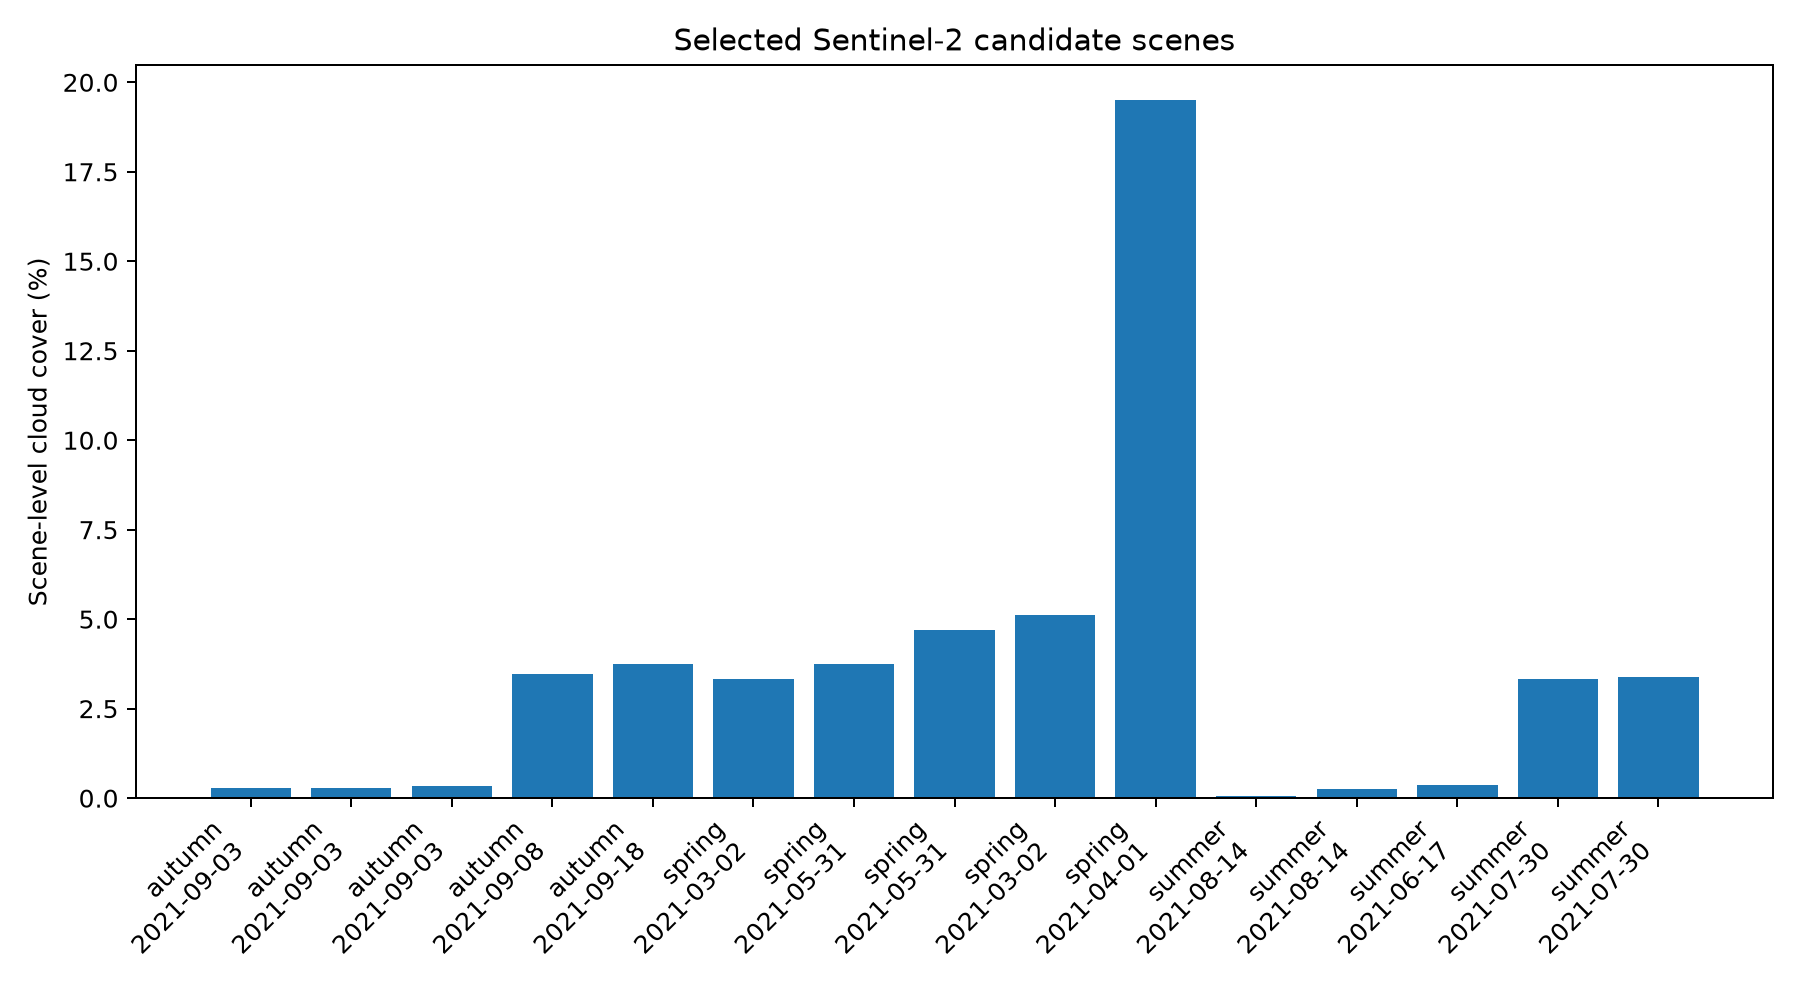
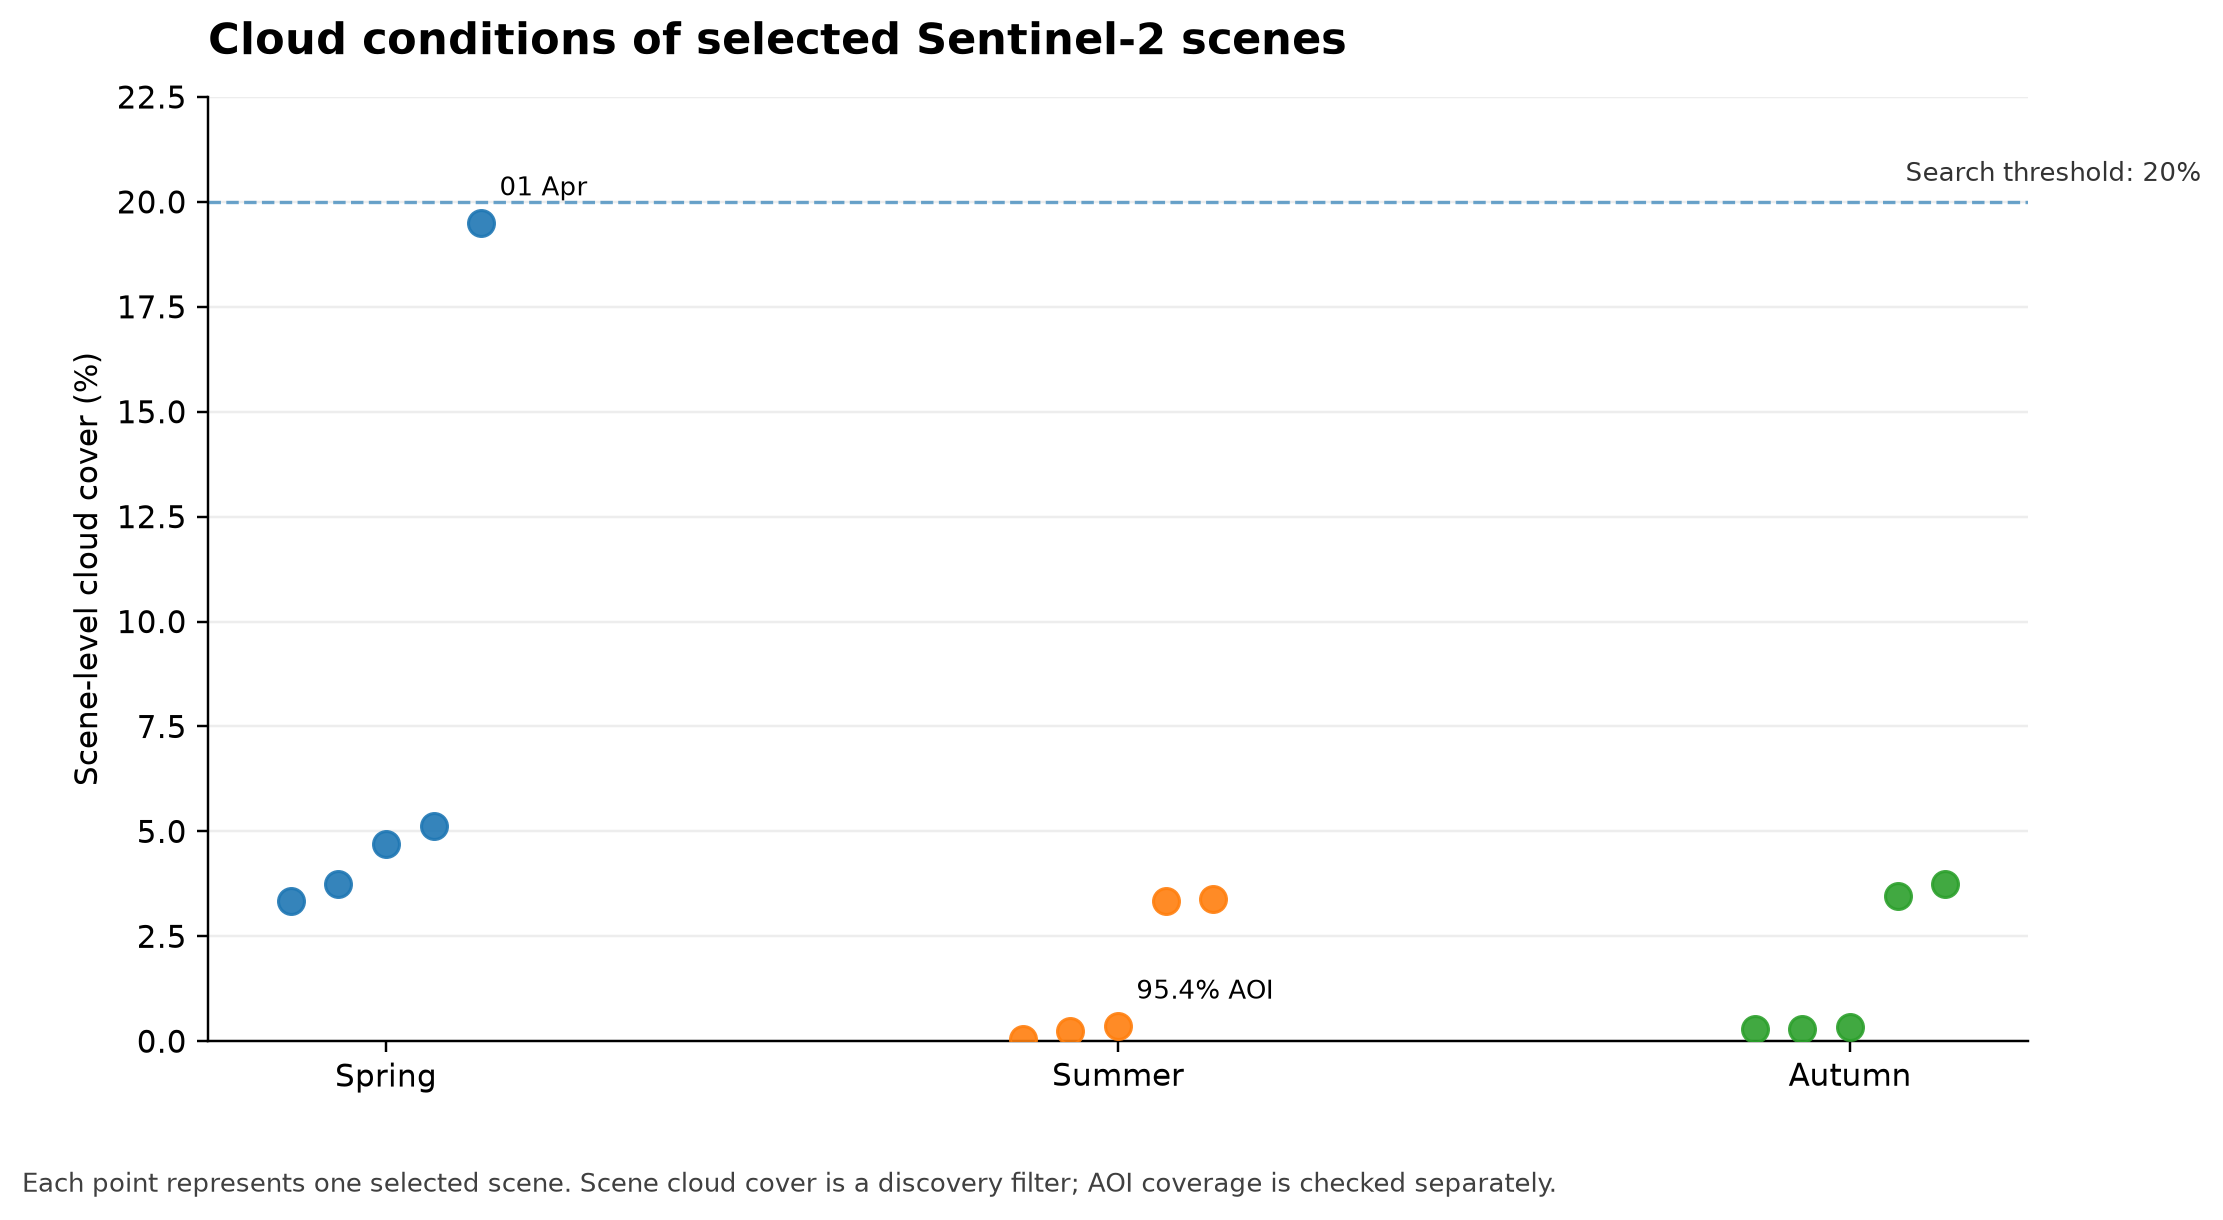
Generate Project04 Stage 1 data QA outputs

diff --git a/outputs/STAGE1_REPORT.md b/outputs/STAGE1_REPORT.md
@@ -1,50 +1,92 @@
 # Stage 1 Data Discovery Report
 
+> **Purpose.** Confirm study-area geometry, identify suitable Sentinel-2 observations, and verify the reference-label source before raster preprocessing or model training.
+
+![Cloud conditions of selected Sentinel-2 scenes](figure01_scene_cloud_cover.png)
+
+## QA at a glance
+
+| Check | Result |
+|---|---:|
+| Augsburg municipal area | **146.76 km²** |
+| Sentinel-2 candidate scenes | **51** |
+| Selected scenes | **15** |
+| Scene cloud-cover search threshold | **<20%** |
+| Minimum target AOI coverage | **95%** |
+| WorldCover source check | **HTTP 206** |
+
+## Seasonal scene summary
+
+| Season | Candidates | Selected | Cloud cover range | AOI coverage range |
+|---|---:|---:|---:|---:|
+| Spring | 15 | 5 | 3.3–19.5% | 100.0–100.0% |
+| Summer | 17 | 5 | 0.1–3.4% | 95.4–100.0% |
+| Autumn | 19 | 5 | 0.3–3.8% | 100.0–100.0% |
+
 ## Study area
 
-- Augsburg municipal area: **146.76 km²**
-- Boundary source: OpenStreetMap relation **62407**
-- Analysis CRS for area/coverage checks: **EPSG:32632**
+- Boundary: OpenStreetMap relation **62407**.
+- Municipal area: **146.76 km²**.
+- CRS used for metric area and coverage checks: **EPSG:32632**.
 
-## Sentinel-2 search
+## Selected-scene details
 
-- Candidate scenes found: **51**
-- Selected candidate scenes: **15**
+The main report keeps scene-level metadata collapsed. Expand a season when exact acquisition times, cloud-cover values, AOI coverage, or STAC item IDs are needed.
 
-### Autumn
+<details>
+<summary><strong>Spring</strong> — 5 selected scene(s)</summary>
 
-- 2021-09-03T10:27:28.066000Z: cloud **0.3%**, AOI coverage **100.0%**, item `S2A_32UPU_20210903_2_L2A`
-- 2021-09-03T10:27:28.066000Z: cloud **0.3%**, AOI coverage **100.0%**, item `S2A_32UPU_20210903_1_L2A`
-- 2021-09-03T10:27:28.066000Z: cloud **0.3%**, AOI coverage **100.0%**, item `S2A_32UPU_20210903_0_L2A`
-- 2021-09-08T10:27:23.531000Z: cloud **3.5%**, AOI coverage **100.0%**, item `S2B_32UPU_20210908_1_L2A`
-- 2021-09-18T10:27:23.588000Z: cloud **3.8%**, AOI coverage **100.0%**, item `S2B_32UPU_20210918_0_L2A`
+| Acquisition | Cloud cover | AOI coverage | STAC item |
+|---|---:|---:|---|
+| 2021-03-02 10:27 UTC | 3.3% | 100.0% | `S2B_32UPU_20210302_1_L2A` |
+| 2021-03-02 10:27 UTC | 5.1% | 100.0% | `S2B_32UPU_20210302_0_L2A` |
+| 2021-04-01 10:27 UTC | 19.5% | 100.0% | `S2B_32UPU_20210401_0_L2A` |
+| 2021-05-31 10:27 UTC | 3.7% | 100.0% | `S2B_32UPU_20210531_0_L2A` |
+| 2021-05-31 10:27 UTC | 4.7% | 100.0% | `S2B_32UPU_20210531_1_L2A` |
 
-### Spring
+</details>
 
-- 2021-03-02T10:27:26.069000Z: cloud **3.3%**, AOI coverage **100.0%**, item `S2B_32UPU_20210302_1_L2A`
-- 2021-05-31T10:27:27.915000Z: cloud **3.7%**, AOI coverage **100.0%**, item `S2B_32UPU_20210531_0_L2A`
-- 2021-05-31T10:27:27.915000Z: cloud **4.7%**, AOI coverage **100.0%**, item `S2B_32UPU_20210531_1_L2A`
-- 2021-03-02T10:27:26.069000Z: cloud **5.1%**, AOI coverage **100.0%**, item `S2B_32UPU_20210302_0_L2A`
-- 2021-04-01T10:27:25.288000Z: cloud **19.5%**, AOI coverage **100.0%**, item `S2B_32UPU_20210401_0_L2A`
+<details>
+<summary><strong>Summer</strong> — 5 selected scene(s)</summary>
 
-### Summer
+| Acquisition | Cloud cover | AOI coverage | STAC item |
+|---|---:|---:|---|
+| 2021-06-17 10:17 UTC | 0.4% | 95.4% | `S2B_32UPU_20210617_0_L2A` |
+| 2021-07-30 10:27 UTC | 3.4% | 100.0% | `S2B_32UPU_20210730_0_L2A` |
+| 2021-07-30 10:27 UTC | 3.3% | 100.0% | `S2B_32UPU_20210730_1_L2A` |
+| 2021-08-14 10:27 UTC | 0.1% | 100.0% | `S2A_32UPU_20210814_1_L2A` |
+| 2021-08-14 10:27 UTC | 0.3% | 100.0% | `S2A_32UPU_20210814_0_L2A` |
 
-- 2021-08-14T10:27:29.646000Z: cloud **0.1%**, AOI coverage **100.0%**, item `S2A_32UPU_20210814_1_L2A`
-- 2021-08-14T10:27:29.646000Z: cloud **0.3%**, AOI coverage **100.0%**, item `S2A_32UPU_20210814_0_L2A`
-- 2021-06-17T10:17:31.041000Z: cloud **0.4%**, AOI coverage **95.4%**, item `S2B_32UPU_20210617_0_L2A`
-- 2021-07-30T10:27:28.855000Z: cloud **3.3%**, AOI coverage **100.0%**, item `S2B_32UPU_20210730_1_L2A`
-- 2021-07-30T10:27:28.854000Z: cloud **3.4%**, AOI coverage **100.0%**, item `S2B_32UPU_20210730_0_L2A`
+</details>
 
-## WorldCover reference source
+<details>
+<summary><strong>Autumn</strong> — 5 selected scene(s)</summary>
 
-- HTTP source check: **206**
-- Tile: **N48E009**
-- Reference year/version: **2021 v200**
+| Acquisition | Cloud cover | AOI coverage | STAC item |
+|---|---:|---:|---|
+| 2021-09-03 10:27 UTC | 0.3% | 100.0% | `S2A_32UPU_20210903_2_L2A` |
+| 2021-09-03 10:27 UTC | 0.3% | 100.0% | `S2A_32UPU_20210903_1_L2A` |
+| 2021-09-03 10:27 UTC | 0.3% | 100.0% | `S2A_32UPU_20210903_0_L2A` |
+| 2021-09-08 10:27 UTC | 3.5% | 100.0% | `S2B_32UPU_20210908_1_L2A` |
+| 2021-09-18 10:27 UTC | 3.8% | 100.0% | `S2B_32UPU_20210918_0_L2A` |
 
-## Interpretation
+</details>
 
-Stage 1 is a QA gate. The selected scenes should be inspected before any classifier is trained.
+## QA notes
 
-The WorldCover layer is used as a reproducible reference-label source, **not as independent field truth**.
+- **Coverage check:** 1 selected scene(s) provide less than 99% AOI coverage; these should be inspected during compositing.
+- **Cloud check:** 1 selected scene(s) have scene-level cloud cover of 10% or more. Pixel-level SCL masking remains necessary.
 
-Next stage: load the selected Sentinel-2 assets, apply SCL quality masking, align all bands to 10 m, and build seasonal composites.
+## Reference labels
+
+- Product: **ESA WorldCover 2021 v200**.
+- Tile: **N48E009**.
+- Source check: **HTTP 206**.
+
+> **Important limitation:** WorldCover is a reproducible reference-label layer, not independent field truth. Agreement with WorldCover must not be presented as independent real-world classification accuracy.
+
+## Stage 1 decision
+
+Stage 1 is a data-quality gate. The selected scenes should be reviewed before classifier training.
+
+**Next step:** load the selected Sentinel-2 assets, apply Scene Classification Layer (SCL) masking, align bands to 10 m, and build seasonal composites.
